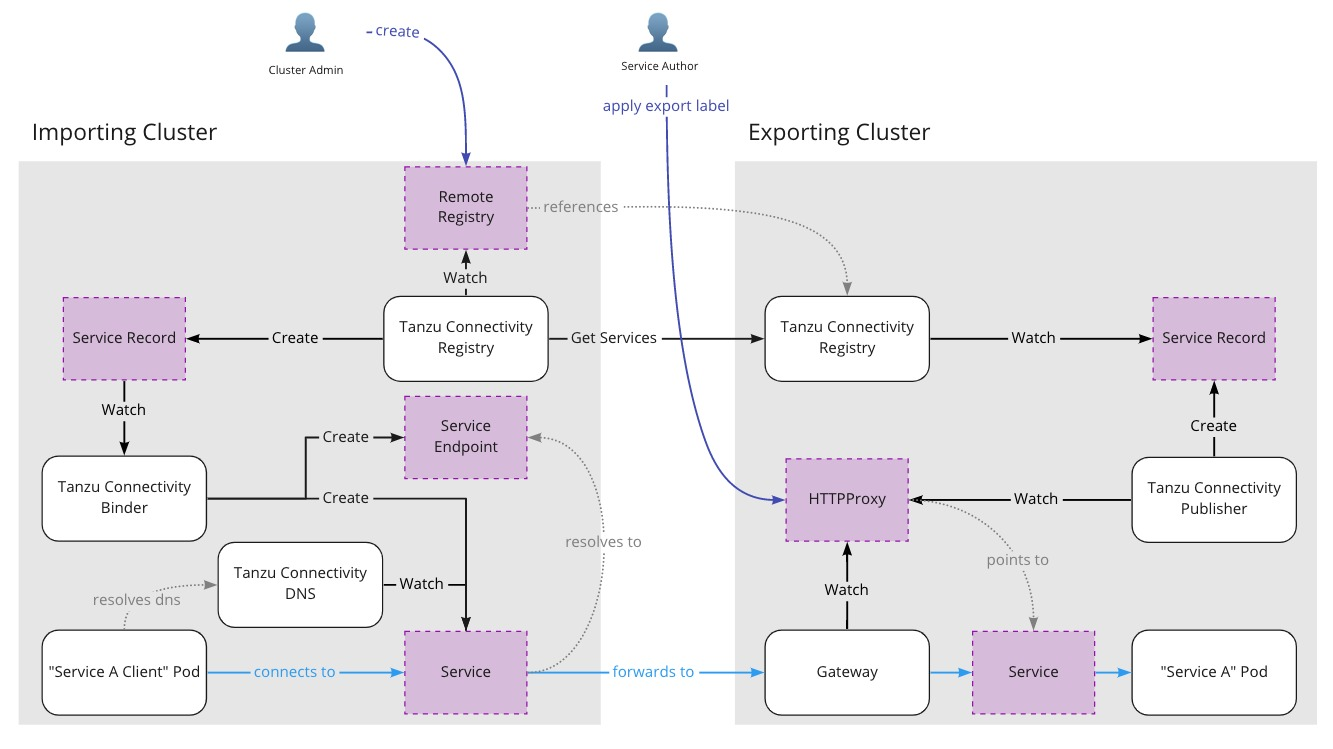
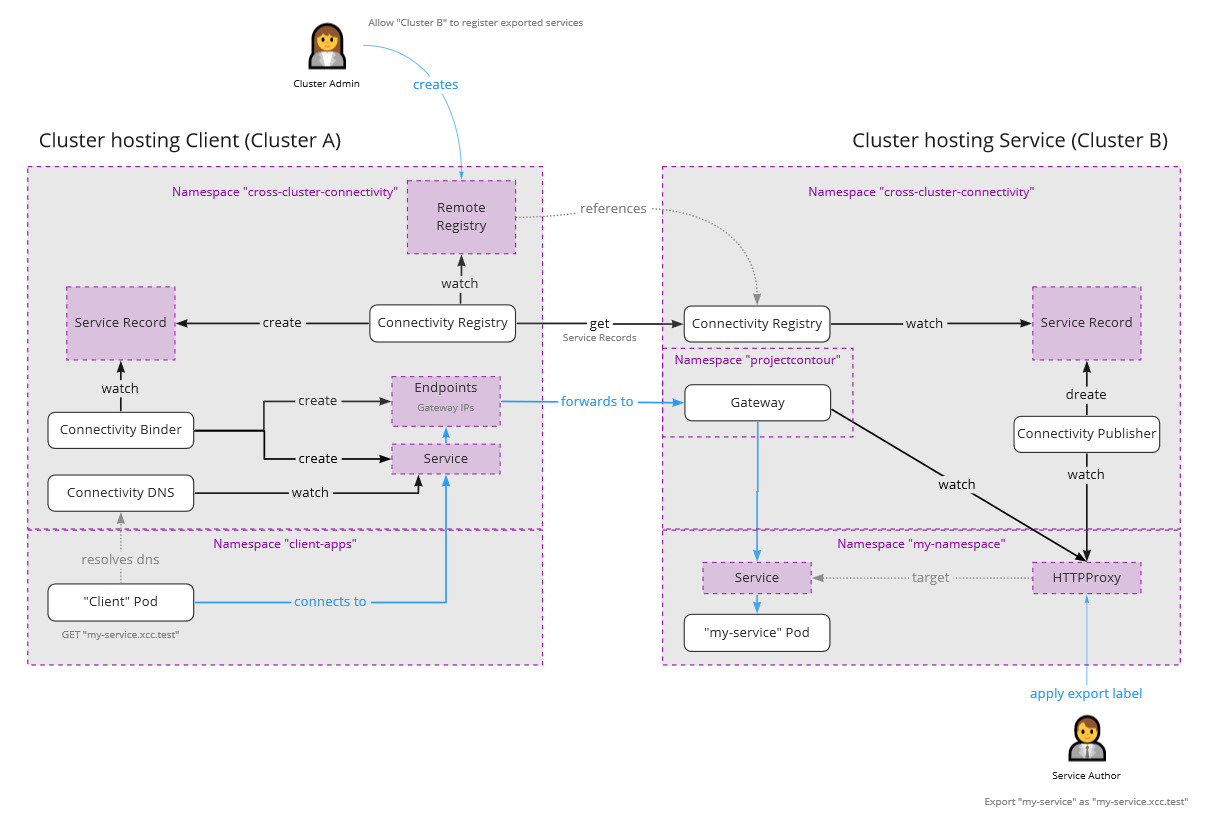
Update architecture docs
- Adds more detail to the diagrams to show the namespace relationships
- Renames tanzu-connectivity-* to connectivity-*

diff --git a/doc/arch.md b/doc/arch.md
@@ -1,7 +1,20 @@
 # Architecture
 
-This project is currently in the pre-alpha stage and the following architecture
-is subject to and will probably change.
+> :warning: This project is currently in the pre-alpha stage and the following
+> architecture is subject to and will probably change.
+
+This overview will explore how Cross-cluster Connectivity allows service authors
+to export services so that client applications running in other Kubernetes
+clusters can access them.
+
+The following is a very simplified diagram of how Cross-cluster Connectivity
+provides connectivity to services across multiple Kubernetes clusters:
+
+![Overview](./images/overview.jpg)
+
+Zooming into the internals of the cross-cluster-connectivity namespace
+reveals how Cross-cluster Connectivity is able to provide service
+discovery across clusters.
 
 ![Architecture](./images/architecture_diagram.jpg)
 
